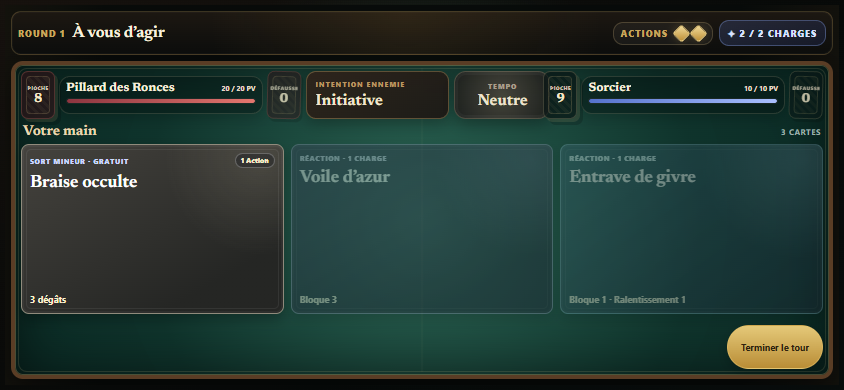
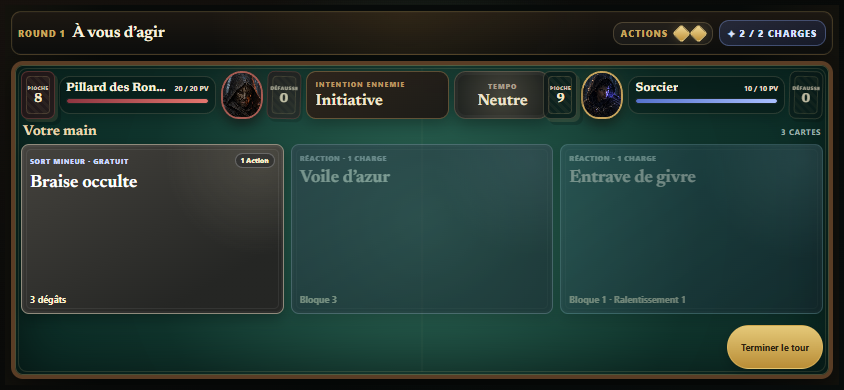
Add reusable combat portraits

Changed region(s): [[0.6777, 0.1846, 0.8009, 0.3077], [0.1848, 0.1846, 0.3081, 0.3077]]

diff --git a/src/renderer/styles.css b/src/renderer/styles.css
@@ -210,10 +210,12 @@ body.narrative-mode .moment-card { display: none; }
 .board-side { position: relative; z-index: 1; display: grid; grid-template-columns: 66px minmax(0, 1fr) 66px; align-items: center; gap: 12px; }
 .fighter { min-width: 0; display: grid; grid-template-columns: 48px minmax(0, 1fr); align-items: center; gap: 10px; }
 .fighter.enemy { grid-template-columns: minmax(0, 1fr) 48px; }
-.fighter.enemy .fighter-token { grid-column: 2; grid-row: 1; }
+.fighter.enemy .fighter-portrait { grid-column: 2; grid-row: 1; }
 .fighter.enemy .fighter-sheet { grid-column: 1; grid-row: 1; }
-.fighter-token { width: 48px; height: 48px; display: grid; place-items: center; border: 3px solid #d0ad62; border-radius: 50%; color: #f9e8ba; background: radial-gradient(circle at 35% 30%, #6b79b5, #252c55 62%, #111629); font: 750 21px/1 "Newsreader", Georgia, serif; box-shadow: 0 5px 13px rgba(0,0,0,.45), inset 0 0 0 2px rgba(255,255,255,.08); }
-.enemy-token { border-color: #b46b62; color: #ffe1d8; background: radial-gradient(circle at 35% 30%, #8b4c4a, #4b2228 62%, #241015); }
+.fighter-portrait { width: 48px; height: 54px; margin: 0; overflow: hidden; border: 2px solid #c7a45d; border-radius: 48% 48% 42% 42%; background: #121817; box-shadow: 0 5px 13px rgba(0,0,0,.52), inset 0 0 0 1px rgba(255,244,215,.16), 0 0 12px rgba(198,156,77,.12); }
+.fighter.enemy .fighter-portrait { border-color: #a75b52; box-shadow: 0 5px 13px rgba(0,0,0,.52), inset 0 0 0 1px rgba(255,226,215,.13), 0 0 12px rgba(183,83,75,.15); }
+.fighter-portrait img { width: 100%; height: 100%; display: block; object-fit: cover; object-position: center 24%; }
+.fighter-portrait[hidden] { display: none; }
 .fighter-sheet { min-width: 0; display: grid; gap: 6px; padding: 8px 10px; border: 1px solid rgba(236,222,183,.15); border-radius: 11px; background: rgba(5,18,16,.48); box-shadow: 0 4px 14px rgba(0,0,0,.18); }
 .fighter-sheet > div:first-child { display: flex; align-items: baseline; justify-content: space-between; gap: 12px; }
 .fighter span { overflow: hidden; font: 650 14px/1 "Newsreader", Georgia, serif; text-overflow: ellipsis; white-space: nowrap; }
@@ -314,7 +316,7 @@ body.narrative-mode .moment-card { display: none; }
   .combat-action-track { order: 2; }
   .board-side { grid-template-columns: 52px minmax(0, 1fr) 52px; gap: 7px; }
   .fighter, .fighter.enemy { grid-template-columns: minmax(0, 1fr); }
-  .fighter .fighter-token { display: none; }
+  .fighter .fighter-portrait { display: none; }
   .fighter.enemy .fighter-sheet { grid-column: 1; }
   .combat-table-center { grid-template-columns: 1fr; }
   .combat-concentration { grid-column: 1; }
@@ -767,14 +769,16 @@ html.pwa.combat-running .combat-action-track small {
   html.pwa .card-pile { height: 48px; }
   html.pwa .card-pile span { font-size: 5px; letter-spacing: .35px; }
   html.pwa .card-pile strong { font-size: 13px; }
-  html.pwa .fighter { grid-template-columns: 32px minmax(0, 1fr); gap: 4px; }
-  html.pwa .fighter.enemy { grid-template-columns: minmax(0, 1fr) 32px; }
-  html.pwa .fighter-token { width: 32px; height: 32px; border-width: 2px; font-size: 15px; }
+  html.pwa .fighter { grid-template-columns: 42px minmax(0, 1fr); gap: 5px; }
+  html.pwa .fighter.enemy { grid-template-columns: minmax(0, 1fr) 42px; }
+  html.pwa .fighter-portrait { width: 42px; height: 48px; display: block; }
   html.pwa.combat-running .fighter,
   html.pwa.combat-running .fighter.enemy {
-    grid-template-columns: minmax(0, 1fr);
+    grid-template-columns: 42px minmax(0, 1fr);
   }
-  html.pwa.combat-running .fighter-token { display: none; }
+  html.pwa.combat-running .fighter.enemy {
+    grid-template-columns: minmax(0, 1fr) 42px;
+  }
   html.pwa.combat-running .fighter.enemy .fighter-sheet {
     grid-column: 1;
     grid-row: 1;

diff --git a/src/server/narrative-tree.js b/src/server/narrative-tree.js
@@ -22,8 +22,8 @@ const ITEM_GRANT_FIELDS = new Set(['id', 'quantity']);
 const TERMINAL_FIELDS = new Set(['endingId', 'reason', 'outcomeSummary', 'retryActId', 'reward']);
 const REWARD_FIELDS = new Set(['id', 'title', 'level', 'statPoints', 'gold']);
 const COMBAT_FIELDS = new Set(['player', 'enemy']);
-const PLAYER_FIELDS = new Set(['name', 'cards', 'deck']);
-const ENEMY_FIELDS = new Set(['name', 'maxHp', 'drawCount', 'cards', 'deck']);
+const PLAYER_FIELDS = new Set(['name', 'portrait', 'cards', 'deck']);
+const ENEMY_FIELDS = new Set(['name', 'portrait', 'maxHp', 'drawCount', 'cards', 'deck']);
 const ENEMY_CARD_FIELDS = new Set(['id', 'name', 'damage', 'description', 'effect']);
 const CARD_FIELDS = new Set(['id', 'name', 'type', 'kind', 'cost', 'description', 'effect']);
 const EFFECT_FIELDS = new Set(['damage', 'block', 'status', 'concentration']);
@@ -334,12 +334,18 @@ function validateCombatNode(node, fail, location) {
   ) {
     fail('combat_player', 'Le combattant exige un nom.', `${location}.combat.player`);
   }
+  if (combat.player?.portrait != null && !nonEmpty(combat.player.portrait)) {
+    fail('combat_player_portrait', 'Le portrait du combattant doit être un chemin non vide.', `${location}.combat.player.portrait`);
+  }
   if (
     !nonEmpty(combat.enemy?.name)
     || !positiveInteger(combat.enemy?.maxHp)
     || !positiveInteger(combat.enemy?.drawCount)
   ) {
     fail('combat_enemy', 'L’adversaire exige un nom, des PV et une pioche par round valide.', `${location}.combat.enemy`);
+  }
+  if (combat.enemy?.portrait != null && !nonEmpty(combat.enemy.portrait)) {
+    fail('combat_enemy_portrait', 'Le portrait de l’adversaire doit être un chemin non vide.', `${location}.combat.enemy.portrait`);
   }
 
   const cards = Array.isArray(combat.player?.cards) ? combat.player.cards : [];

diff --git a/tools/capture-pwa-qa.js b/tools/capture-pwa-qa.js
@@ -182,10 +182,13 @@ function inspect(window) {
         const rect = item.getBoundingClientRect();
         return style.display !== 'none' && style.visibility !== 'hidden' && rect.width > 0 && rect.height > 0;
       }).length,
-      fighterTokensVisible: [...document.querySelectorAll('.fighter-token')].some((item) => {
+      fighterPortraits: [...document.querySelectorAll('.fighter-portrait img')].map((item) => {
         const style = getComputedStyle(item);
         const rect = item.getBoundingClientRect();
-        return style.display !== 'none' && style.visibility !== 'hidden' && rect.width > 0 && rect.height > 0;
+        return {
+          visible: style.display !== 'none' && style.visibility !== 'hidden' && rect.width > 0 && rect.height > 0,
+          src: item.getAttribute('src'),
+        };
       }),
       endTurnText: document.querySelector('#combat-end-turn').textContent,
       ready: window.CANDY_PWA_READY === true,
@@ -218,7 +221,8 @@ function assertLandscapeLayout(layout) {
     || layout.combatTop > 8
     || layout.combatVisibleHeight < 380
     || layout.explanatoryTextVisible !== 0
-    || layout.fighterTokensVisible
+    || layout.fighterPortraits.length !== 2
+    || layout.fighterPortraits.some((portrait) => !portrait.visible || !portrait.src?.includes('-portrait.jpg'))
     || layout.endTurnText !== 'Terminer le tour'
     || layout.minTouchTarget < 44
   ) {

diff --git a/src/renderer/index.html b/src/renderer/index.html
@@ -140,7 +140,9 @@
                       <strong id="combat-enemy-draw-count">6</strong>
                     </div>
                     <div class="fighter enemy">
-                      <div class="fighter-token enemy-token" aria-hidden="true">V</div>
+                      <figure class="fighter-portrait" hidden>
+                        <img id="combat-enemy-portrait" alt="">
+                      </figure>
                       <div class="fighter-sheet">
                         <div><span id="combat-enemy-name">Pillard</span><b id="combat-enemy-hp">14 / 14 PV</b></div>
                         <div class="health-bar"><i id="combat-enemy-meter"></i></div>
@@ -185,7 +187,9 @@
                       <strong id="combat-draw-count">5</strong>
                     </div>
                     <div class="fighter">
-                      <div class="fighter-token player-token" aria-hidden="true">S</div>
+                      <figure class="fighter-portrait" hidden>
+                        <img id="combat-player-portrait" alt="">
+                      </figure>
                       <div class="fighter-sheet">
                         <div><span id="combat-player-name">Sorcier</span><b id="combat-player-hp">10 / 10 PV</b></div>
                         <div class="health-bar"><i id="combat-player-meter"></i></div>

diff --git a/src/renderer/app.js b/src/renderer/app.js
@@ -413,6 +413,15 @@ function renderCombat(combat, combatItems = []) {
   setText('#combat-player-hp', `${combat.player.hp} / ${combat.player.maxHp} PV`);
   setText('#combat-enemy-name', combat.enemy.name);
   setText('#combat-enemy-hp', `${combat.enemy.hp} / ${combat.enemy.maxHp} PV`);
+  const renderFighterPortrait = (selector, fighter) => {
+    const image = $(selector);
+    const frame = image.closest('.fighter-portrait');
+    frame.hidden = !fighter.portrait;
+    image.src = fighter.portrait || '';
+    image.alt = fighter.portrait ? `Portrait de ${fighter.name}` : '';
+  };
+  renderFighterPortrait('#combat-player-portrait', combat.player);
+  renderFighterPortrait('#combat-enemy-portrait', combat.enemy);
   $('#combat-player-meter').style.width = `${(combat.player.hp / combat.player.maxHp) * 100}%`;
   $('#combat-enemy-meter').style.width = `${(combat.enemy.hp / combat.enemy.maxHp) * 100}%`;
   const pendingDisadvantage = combat.pendingAttack?.effect?.status?.id === 'disadvantage';

diff --git a/src/server/combat-engine.js b/src/server/combat-engine.js
@@ -14,6 +14,7 @@ class CombatEngine {
       phase: 'player',
       player: {
         name: this.config.player.name,
+        portrait: this.config.player.portrait || null,
         stats: structuredClone(stats),
         hp: stats.constitution * 5,
         maxHp: stats.constitution * 5,
@@ -26,6 +27,7 @@ class CombatEngine {
       },
       enemy: {
         name: this.config.enemy.name,
+        portrait: this.config.enemy.portrait || null,
         hp: this.config.enemy.maxHp,
         maxHp: this.config.enemy.maxHp,
         drawCount: this.config.enemy.drawCount,

diff --git a/artifacts/context/current-project-map.md b/artifacts/context/current-project-map.md
@@ -4,25 +4,25 @@
 
 ## Référence
 
-- **Empreinte :** `b8eb2fc4731b0bd8`
-- **Générée :** 2026-07-24T14:09:41.439Z
-- **Git informatif :** branche `main`, HEAD `fd680de8694e`, 14 entrée(s) dans le worktree
+- **Empreinte :** `f5ca18a99d66959b`
+- **Générée :** 2026-07-24T14:35:45.534Z
+- **Git informatif :** branche `main`, HEAD `abc8916802d2`, 21 entrée(s) dans le worktree
 - **Comparaison fiable :** les changements sont détectés par le contenu des fichiers, même si le worktree n'est pas commité.
-- **Boucle active :** `artifacts/loops/006-jouer-sur-mobile.md` — `à jouer`
-- **Dernier verdict :** `artifacts/loops/003-la-cage-du-treuil.md` — `garder`
+- **Boucle active :** `artifacts/loops/005-tenir-le-sort.md` — `à jouer`
+- **Dernier verdict :** `artifacts/loops/006-jouer-sur-mobile.md` — `garder`
 
 ## Routage
 
 | Domaine | Empreinte | Fichiers repères | Validation |
 | --- | --- | --- | --- |
-| Règles et boucle | `85f3658d7d94` | `AGENTS.md`<br>`.agents/skills/conduire-boucle-fantasy-story/SKILL.md`<br>`artifacts/loops/006-jouer-sur-mobile.md` | validateur du skill, puis `git diff --check` |
-| Livre et structure | `04a19fa95a85` | `content/chapters/`<br>`src/server/story-format.js`<br>`src/server/narrative-tree.js` | `npm run verify:story` et tests narratifs ciblés |
+| Règles et boucle | `0bc381d85cd2` | `AGENTS.md`<br>`.agents/skills/conduire-boucle-fantasy-story/SKILL.md`<br>`artifacts/loops/005-tenir-le-sort.md` | validateur du skill, puis `git diff --check` |
+| Livre et structure | `12fb72487322` | `content/chapters/`<br>`src/server/story-format.js`<br>`src/server/narrative-tree.js` | `npm run verify:story` et tests narratifs ciblés |
 | État et sauvegarde | `bb640c6b1f6c` | `src/server/state-schema.js`<br>`src/server/story-repository.js`<br>`src/server/book-session-service.js` | `npm run check` et tests de persistance ciblés |
-| Moteur | `2d2469ef6342` | `src/server/branching-book-runtime.js`<br>`src/server/combat-engine.js`<br>`src/server/progression-service.js` | `npm run check` et tests moteur ciblés |
-| Application et interface | `44ef51ea256e` | `src/main.js`<br>`src/preload.js`<br>`src/renderer/app.js`<br>`src/renderer/styles.css` | `npm run qa:visual` si le rendu ou l'interaction change |
-| Ressources visuelles | `ba0aafb0ffd7` | `src/renderer/assets/`<br>`content/visuals/`<br>`tools/capture-visual-qa.js` | licences, puis `npm run qa:visual` si l'affichage change |
+| Moteur | `725f53b88453` | `src/server/branching-book-runtime.js`<br>`src/server/combat-engine.js`<br>`src/server/progression-service.js` | `npm run check` et tests moteur ciblés |
+| Application et interface | `44ad7f1fb908` | `src/main.js`<br>`src/preload.js`<br>`src/renderer/app.js`<br>`src/renderer/styles.css` | `npm run qa:visual` si le rendu ou l'interaction change |
+| Ressources visuelles | `b5b8f4e08bc5` | `src/renderer/assets/`<br>`content/visuals/`<br>`tools/capture-visual-qa.js` | licences, puis `npm run qa:visual` si l'affichage change |
 | Tests | `dbd681c8bd84` | `test/` | test ciblé du contrat modifié |
-| Configuration et reste du projet | `76032031b86e` | `package.json`<br>`README.md`<br>`.gitignore` | validation dictée par le domaine concerné |
+| Configuration et reste du projet | `ab579122d965` | `package.json`<br>`README.md`<br>`.gitignore` | validation dictée par le domaine concerné |
 
 ## Démarrage d'une boucle
 

diff --git a/artifacts/loops/006-jouer-sur-mobile.md b/artifacts/loops/006-jouer-sur-mobile.md
@@ -1,6 +1,6 @@
 # Boucle 006 — Jouer sur mobile
 
-**Statut :** `à jouer`
+**Statut :** `garder`
 
 ## Contrat
 
@@ -43,5 +43,5 @@ Installer ou ouvrir la PWA → démarrer La Route des Ronces → choisir l’anc
   - les descriptions permanentes, sous-textes répétitifs et jetons provisoires disparaissent du combat PWA ; seuls restent noms, coûts, états, valeurs et actions ;
   - un choix, l’entrée en combat et une carte jouée survivent à un rechargement complet puis à un redémarrage sans serveur.
 - **Preuves :** `npm run check` et `npm run qa:pwa` réussissent pour la passe mobile ; captures `pwa-route-390x844.png`, `pwa-combat-390x844.png` et `pwa-combat-landscape-844x390.png`.
-- **Reste incertain :** confort du plateau corrigé sur le téléphone physique du joueur.
-- **Verdict :** à jouer.
+- **Reste incertain :** aucun point bloquant relevé pendant l’essai sur le téléphone physique du joueur.
+- **Verdict :** `garder` — boucle jouée et validée par le joueur le 24 juillet 2026.

diff --git a/.agents/skills/concevoir-visuels-fantasy-story/SKILL.md b/.agents/skills/concevoir-visuels-fantasy-story/SKILL.md
@@ -54,6 +54,7 @@ Ne pas multiplier les variantes avant d'avoir appris quelque chose de la premiè
 - Conserver une hiérarchie stable quand l'écran se compacte.
 - Rendre visibles l'application, la durée et la consommation d'un état sans dépendre uniquement de la couleur.
 - Supprimer de l'interface finale tous les sous-textes, descriptions explicatives, aides permanentes et phrases qui répètent une information déjà portée par un nom, une valeur, un coût, un état, une icône ou une action. Ne conserver à l'écran que le texte directement nécessaire pour choisir ou agir.
+- Distinguer avant l'intégration les ancrages fixes du HUD des contenus génériques. Fixer la position et la géométrie des PV, ressources et actions ; alimenter par les données les portraits, noms et identités. Ne jamais coder le Pillard, le Sorcier ou un autre combattant en dur dans un cadre réutilisable.
 
 ### Cartes
 
